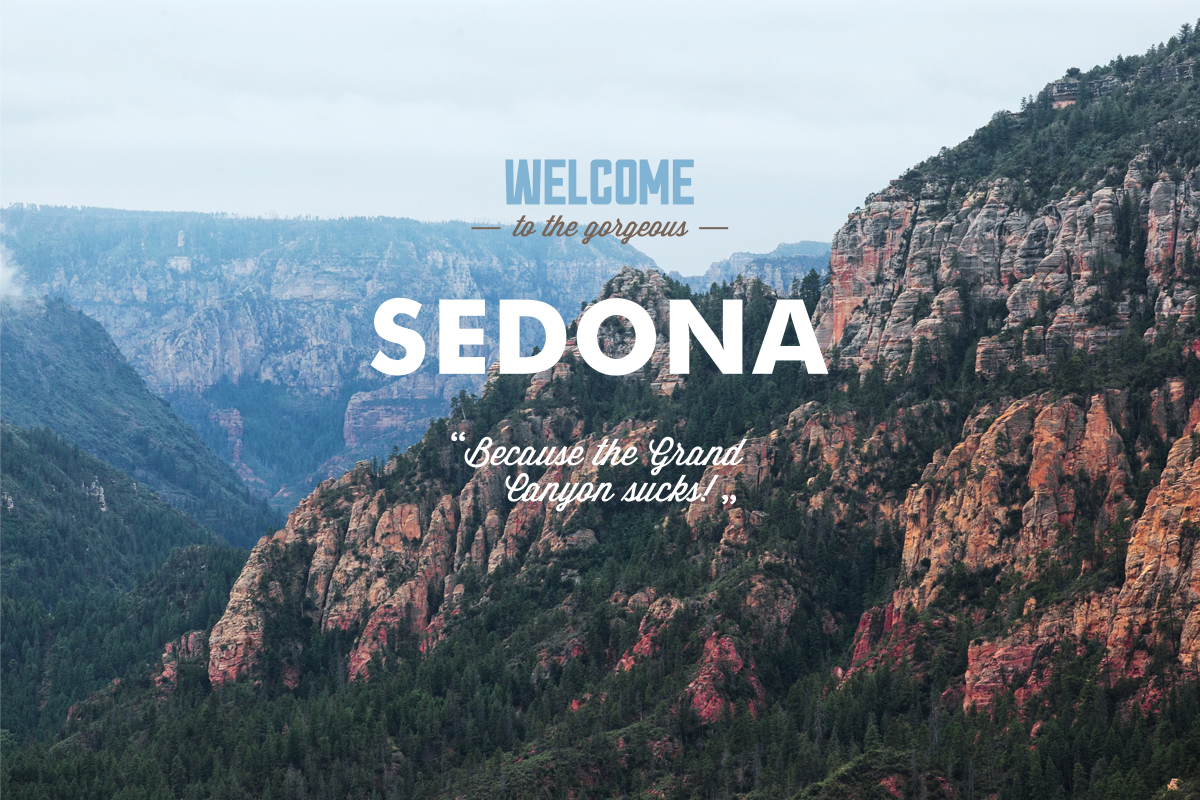
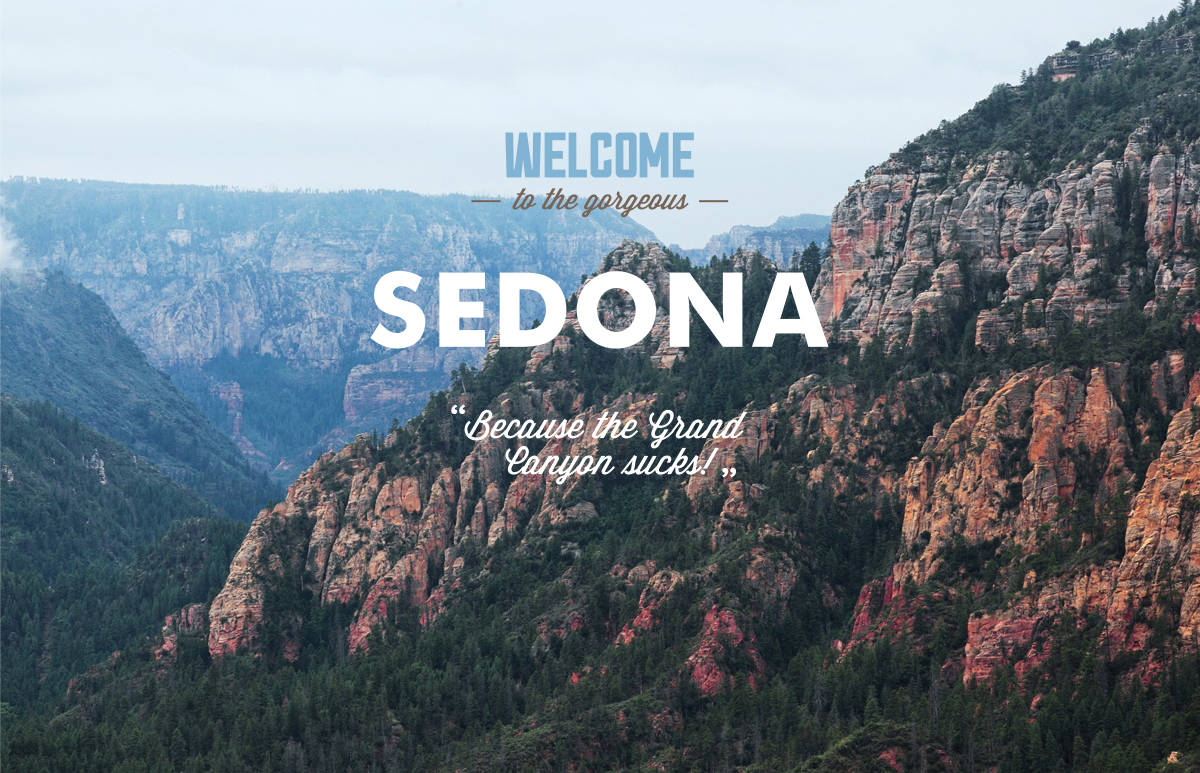
7. Декоративные элементы09
7. Декоративные элементы09

diff --git a/css/style.css b/css/style.css
@@ -58,15 +58,17 @@ a {
   height: 1px;
   margin: -1px;
 }
-/*
+
 .main-header {
-  display: flex;
-  justify-content: center;
+  position: absolute;
+/*  margin-left: auto;
+  margin-right: auto;*/
+
 }
-*/
+
 .main-nav {
-  width: 1200px;
-  margin: 0px auto;
+/*  width: 1200px;
+  margin: 0px auto;*/
   line-height: 26px;
   font-weight: 700;
   color: #000000;
@@ -130,7 +132,7 @@ a {
 
 .polygon-sedona {
 display: block;
-margin-top: -58px;
+margin-top: -293px;
 }
 
 .sedona-slogan,
@@ -139,11 +141,13 @@ margin-top: -58px;
   font-weight: bold;
   line-height: 26px;
   text-align: center;
+
 }
 
 .sedona-slogan {
   display: block;
   margin-bottom: 32px;
+  background-color: #ffffff;
 }
 
 .button {
@@ -164,37 +168,35 @@ margin-top: -58px;
 .offer {
   text-align: center;
   line-height: 24px;
-}
-
-.init-form-booking {
-  position: relative;
-  margin-left: 356px;
-  weight: 568px;
-  height: 86px;
+    background-color: #ffffff;
 }
 
 .form-booking-wrapper {
   position: relative;
 }
 
-.form-booking {
-  position:absolute;
-  top: 0px;
-  left: 0;
-  width: 100%;
-  visibility: visible;
-  width: 568px;
-  height: 395px;
-  margin-left: 356px;
-  background-color: white;
-}
-
 .button-init-form-booking {
-  margin-left: 355px;
+  position: absolute;
+  left: 356px;
+  right: auto;
   padding: 35px 140px;
   font-size: 21px;
   font-weight: 700;
   line-height: 26px;
+/*  margin-left: 356px;
+  weight: 568px; */
+  height: 86px;
+}
+
+.form-booking {
+  position:absolute;
+  top: 86px;
+  left: 356px;
+  width: 100%;
+  visibility: visible;
+  width: 568px;
+  height: 395px;
+  background-color: white;
 }
 
 .button-init-form-booking:active + .form-booking-wrapper .form-booking  {
@@ -368,12 +370,14 @@ color: blue;
 /* sedona-footer*/
 
 footer {
-  margin-top: 35px;
+  padding-top: 35px;
+  background-color: rgba(249, 251, 246, 0.9);
 }
 
 .footer-box {
   display: flex;
   align-items: center;
+
 }
 
 .hashtag {

diff --git a/index.html b/index.html
@@ -8,7 +8,8 @@
     <link href="css/style.css" rel="stylesheet" />
   </head>
   <body>
-    <header class="main-header">
+    <div  class="container">
+    <header class="main-header container">
       <nav class="main-nav">
     <ul class="nav-list">
       <li class="nav-item">
@@ -29,7 +30,7 @@
     </ul>
       </nav>
     </header>
-
+</div>
     <main class="container">
       <h1 class="visually-hidden">Сайт городка Sedona</h1>
         <img class="welcome-sedona" src="img/background-photo.jpg" width="1200" height="800" />
@@ -51,10 +52,12 @@
         <p class="offer">
           Укажите предполагаемые даты поездки, <br /> и мы покажем вам лучшие предложения гостиниц в седоне
         </p>
-      <button type="button" name="init-form-booking" class="button button-brown button-init-form-booking" id="init-form-booking">
-      поиск гостиницы в седоне
-      </button>
+
         <div class="form-booking-wrapper">
+          <button type="button" name="init-form-booking" class="button button-brown button-init-form-booking"
+           id="init-form-booking">
+          поиск гостиницы в седоне
+          </button>
           <form class="form-booking" action="https://echo.htmlacademy.ru" method="get">
             <div class="form-booking-flex">
             <p class="form-booking-item">
